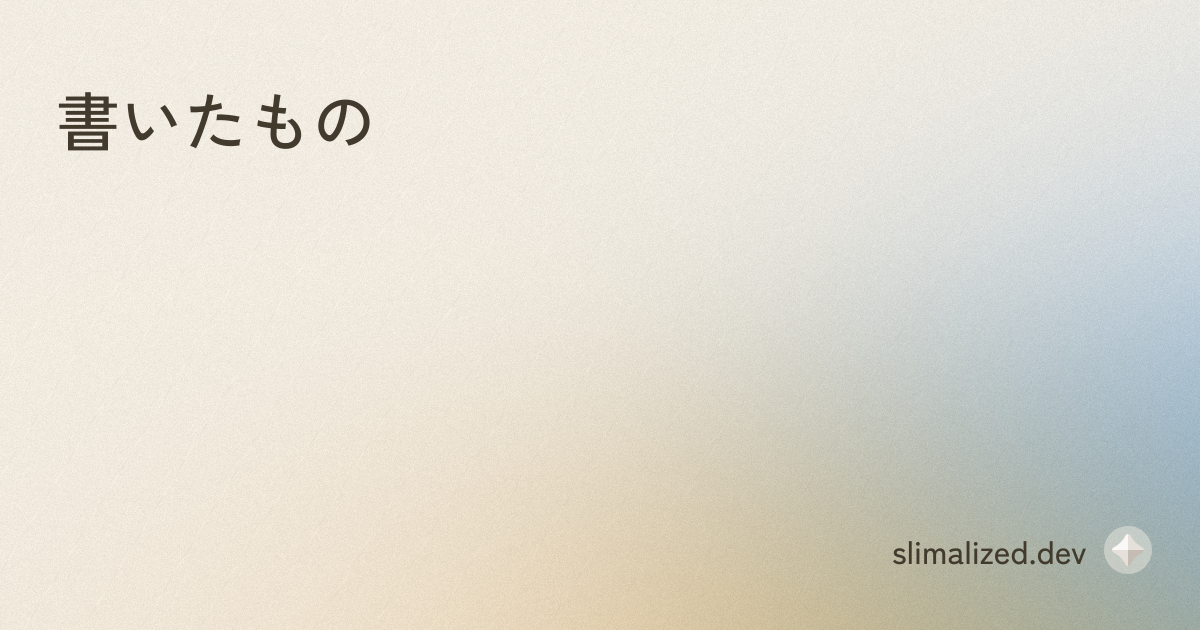
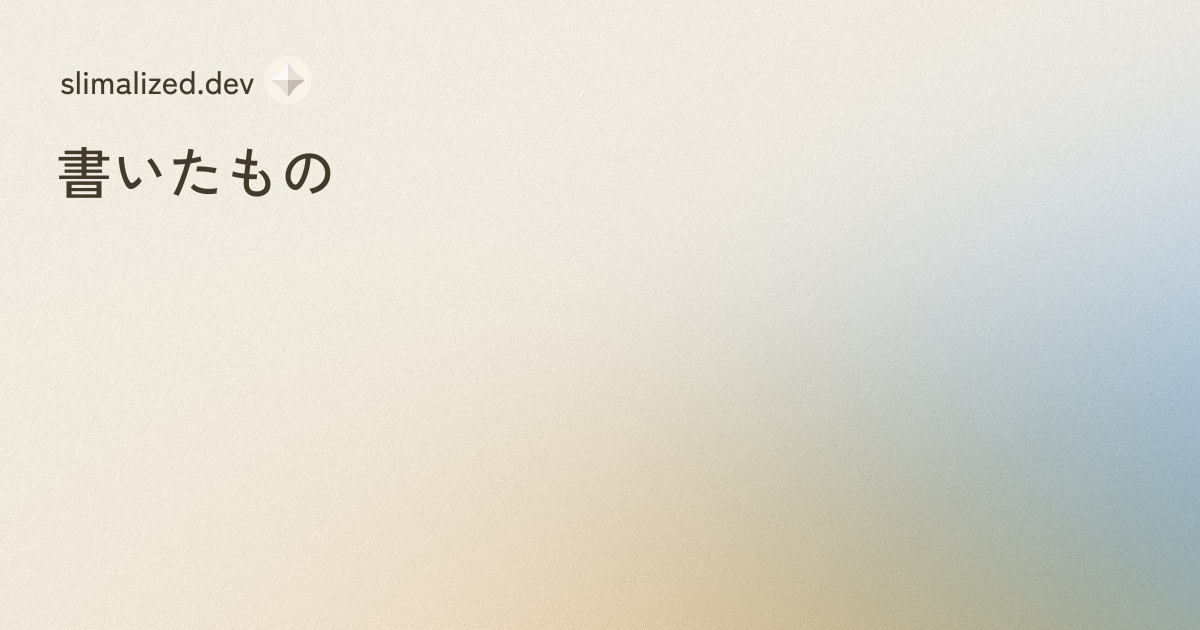
style: og-imageのデザイン変更

Changed region(s): [[0.0308, 0.1206, 0.3083, 0.3317], [0.74, 0.8143, 0.9558, 0.9048]]

diff --git a/src/components/OgpImage.tsx b/src/components/OgpImage.tsx
@@ -39,9 +39,8 @@ export const generateOgpImage = async (title: string, date: string) => {
 				display: "flex",
 				flexDirection: "column",
 				backgroundColor: "#fff",
-				fontSize: 48,
-				fontWeight: 500,
 				color: "#413a2d",
+				fontWeight: 500,
 			}}
 		>
 			<img
@@ -56,43 +55,21 @@ export const generateOgpImage = async (title: string, date: string) => {
 					height: "100%",
 				}}
 			/>
-			<p
-				style={{
-					lineHeight: 1.2,
-					fontSize: 56,
-					padding: "32px 64px 0 56px",
-					width: "100%",
-					textWrap: "balance",
-				}}
-			>
-				{title}
-			</p>
-			<p
-				style={{
-					lineHeight: 1.5,
-					paddingLeft: 56,
-					fontSize: 40,
-					marginTop: -16,
-					color: "#827a6b",
-				}}
-			>
-				{date}
-			</p>
 			<div
 				style={{
-					position: "absolute",
-					bottom: 8,
-					right: 48,
+					width: 260,
 					display: "flex",
 					alignItems: "center",
 					justifyContent: "center",
-					gap: 16,
+					gap: 8,
+					marginTop: 40,
+					marginLeft: 56,
 				}}
 			>
 				<p
 					style={{
-						lineHeight: 1.5,
 						fontSize: 32,
+						lineHeight: 1.5,
 					}}
 				>
 					slimalized.dev
@@ -104,13 +81,33 @@ export const generateOgpImage = async (title: string, date: string) => {
 					height={48}
 					style={{
 						padding: 8,
-						width: "48px",
-						height: "48px",
+						width: 48,
+						height: 48,
 						borderRadius: "50%",
-						backgroundColor: "rgb(253, 247, 236, 0.4)",
+						backgroundColor: "rgb(253, 247, 236, 0.6)",
 					}}
 				/>
 			</div>
+			<p
+				style={{
+					fontSize: 56,
+					lineHeight: 1.2,
+					textWrap: "balance",
+					marginLeft: 56,
+				}}
+			>
+				{title}
+			</p>
+			<p
+				style={{
+					fontSize: 40,
+					lineHeight: 1.5,
+					color: "#827a6b",
+					marginLeft: 56,
+				}}
+			>
+				{date}
+			</p>
 		</div>,
 		{
 			width: 1200,
